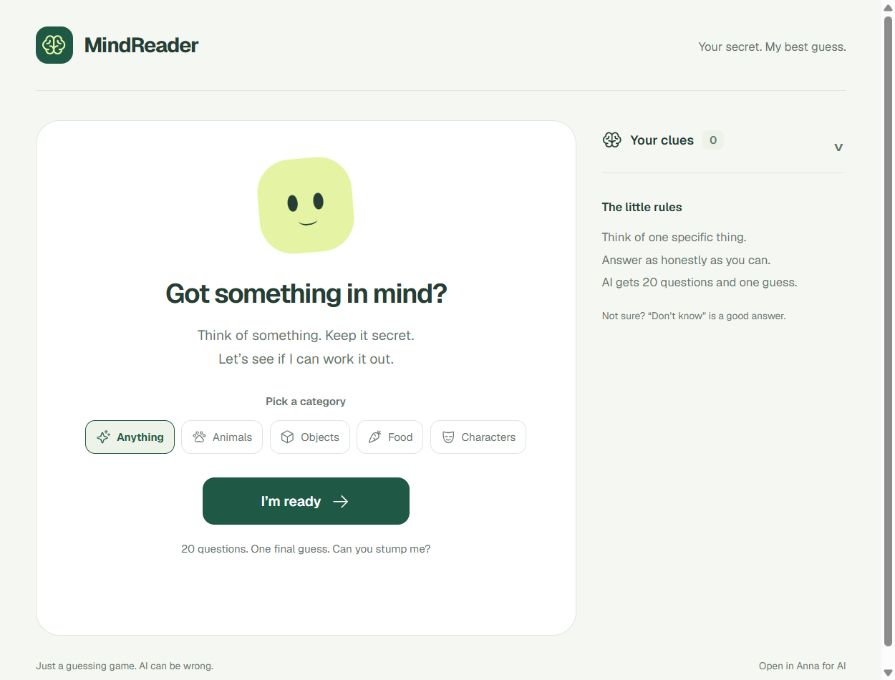
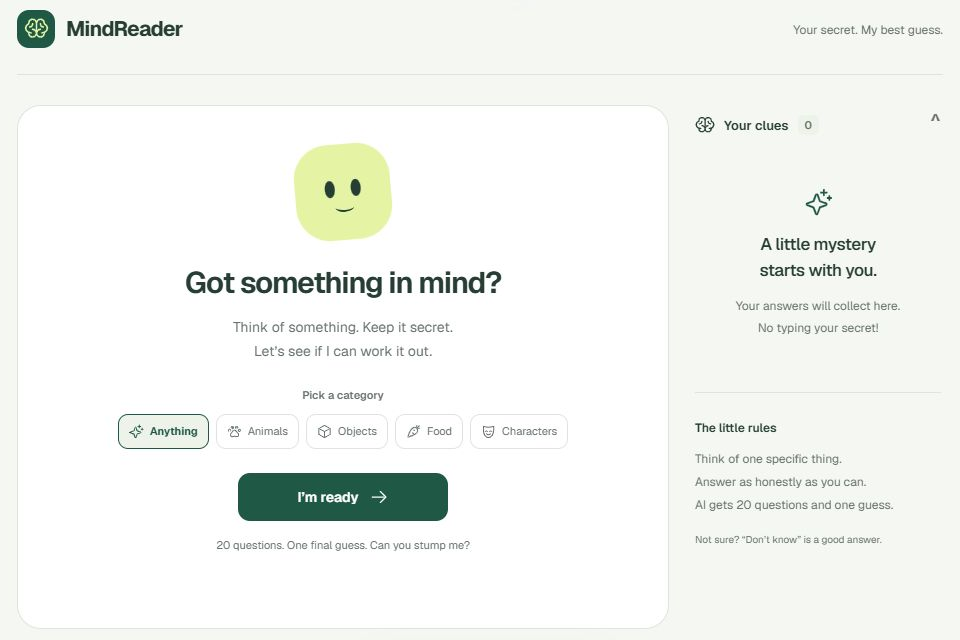
Record installed MindReader verification and listing screenshots

diff --git a/DEPLOY.md b/DEPLOY.md
@@ -14,3 +14,16 @@ Architecture: schema 3 static SPA, direct Host `llm.complete`, no storage or Exe
 - Source repository created separately: https://github.com/cartoontv1152-arch/mindreader-anna.
 
 Remaining release gates: upload immutable version, install exact version and verify grants, complete a real game in Anna, capture genuine production screenshots, submit for review and independently verify the pinned candidate. Do not release publicly before approval.
+
+## Uploaded and installed, 2026-10-22
+
+- Uploaded immutable `1.0.0`, version ID `1555`, app ID `648`.
[1 lines of base64/hex data omitted]
+- CLI Windows dry-run hit the known libuv shutdown assertion; the real upload completed with exit code 0 and the expected identity.
+- Developer Console installation toast confirmed MindReader v1.0.0. Independent grants read confirmed `installed_version: 1.0.0`, `llm.complete: true`, `satisfied: true`, and `missing: []`. The manifest requests no storage or agent capabilities.
+- First app launch stalled at an empty browser document. Normal dashboard reload recovered it; no app code or permissions were altered. The installed game then connected and returned real AI questions.
+- Production Undo restored the exact previous question and decreased the clue count, with no loading state or model call.
+- Genuine installed ready screenshot captured and cropped to app content, excluding account details and host dock.
+- Installed Food round completed with 8 answered clues, AI's final guess `cherry`, and the `You stumped me` result after an incorrect-guess confirmation. The user also interacted during this live test. Replay was observed starting a new Food game at Question 1 with zero clues. These were real production UI states, not test fixtures. The result was observed in AX text; the next screenshot captured the already-started replay and is labelled accordingly.
+- Installed question screenshot shows all four answer buttons, the question count, clue history, and Undo fitting the default app window. Two genuine installed screenshots are used for the listing.
+- Chrome responsive checks covered 390px mobile first-open behavior; dark-theme/error-state contrast was visually checked with a temporary Chrome media emulation, then restored. No browser preference changes were left in place.
